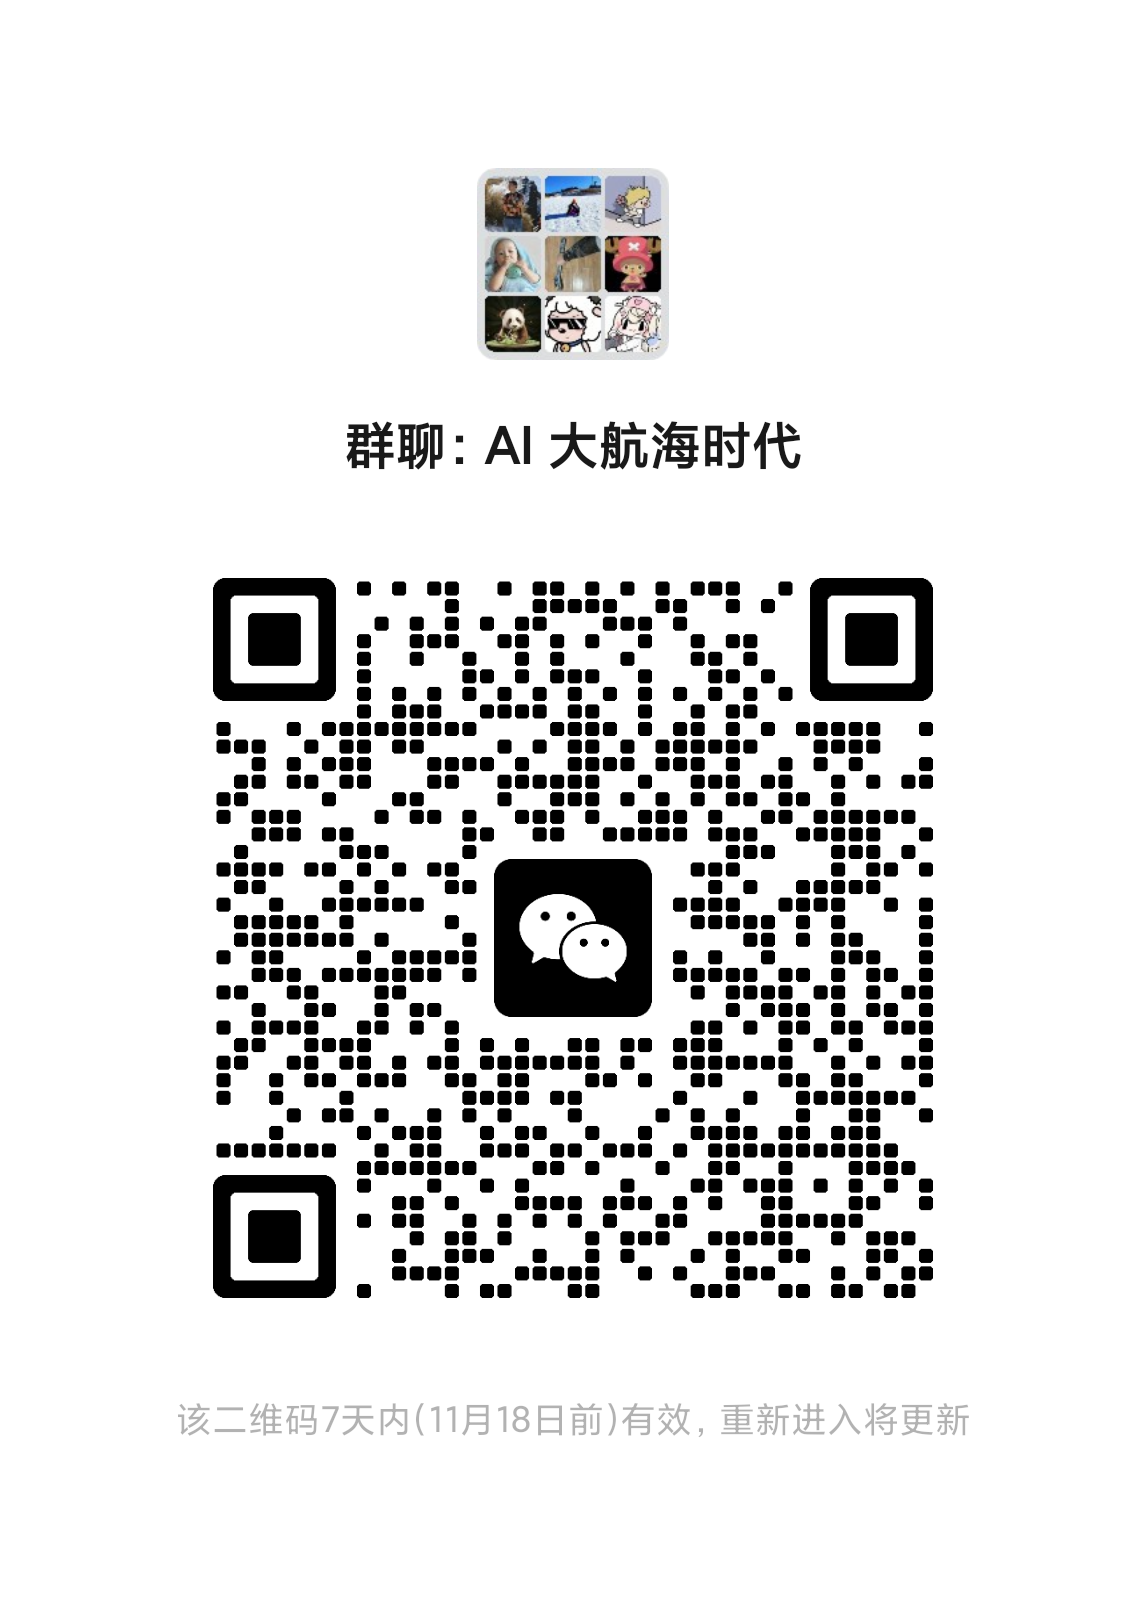
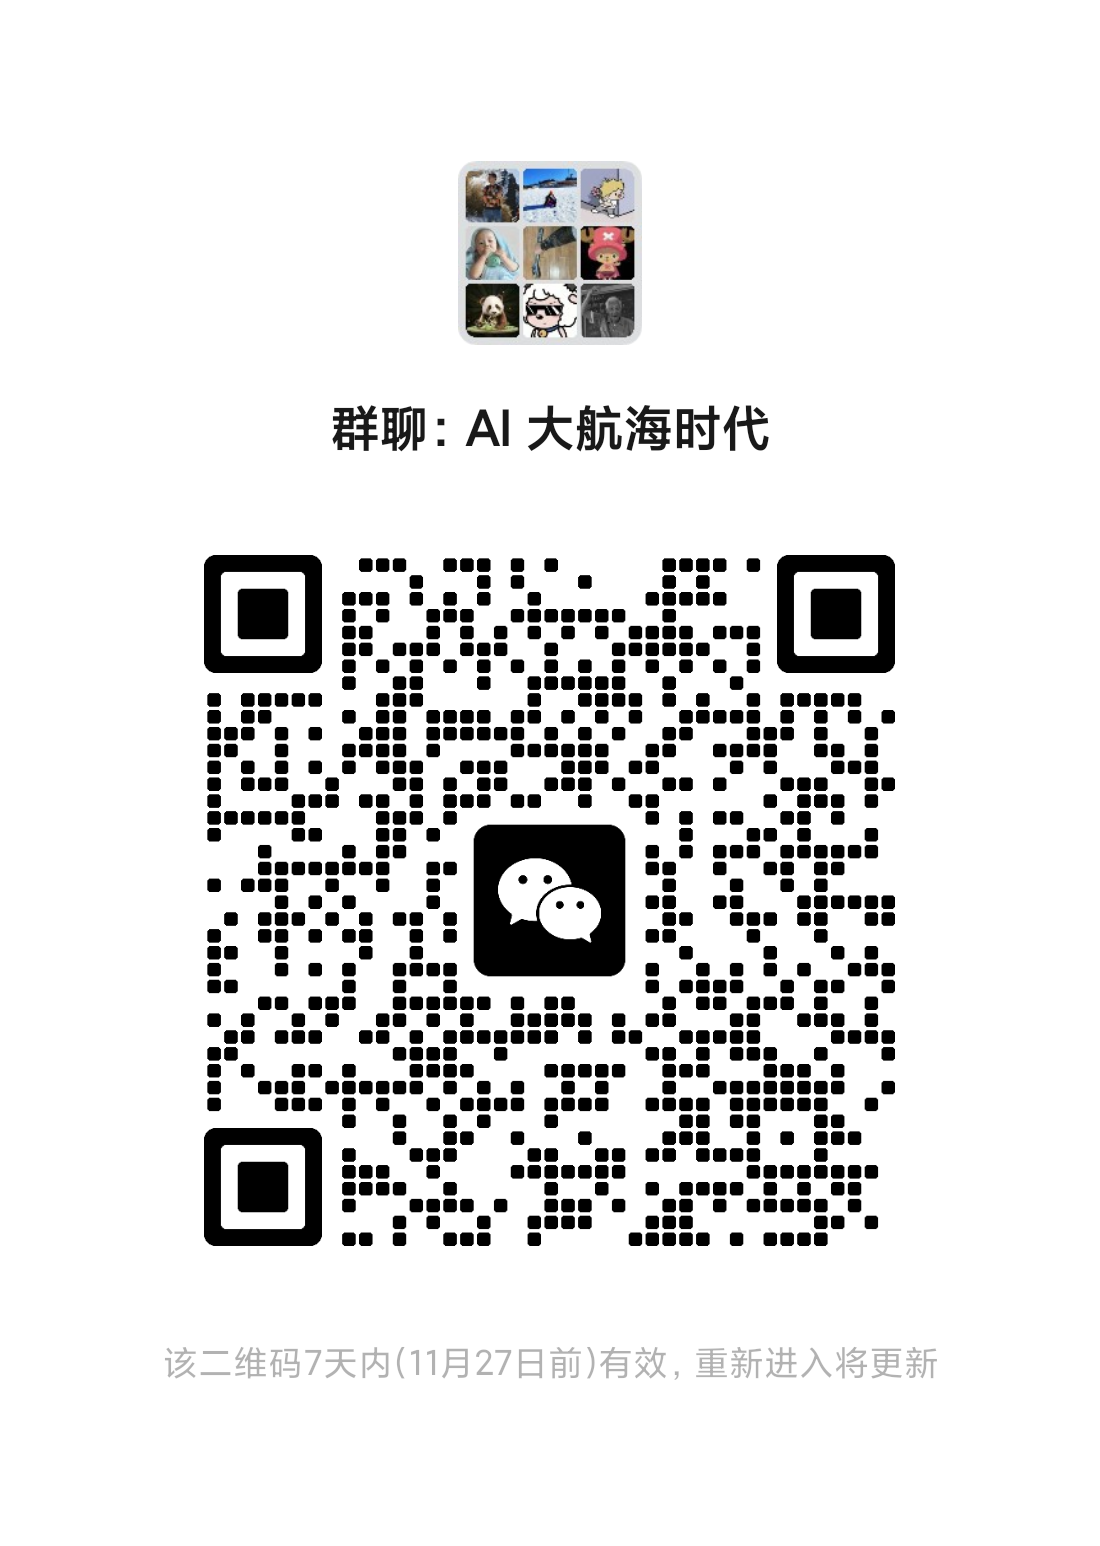
docs: refresh WeChat group QR valid before November 27

diff --git a/README.md b/README.md
@@ -97,7 +97,7 @@ npm run build    # 静态站点输出到 dist/
 
 <img src="docs/media/wechat-group.png" alt="微信群二维码：AI 大航海时代" width="260">
 
-> 当前二维码图片标注为 7 天内有效（2026 年 11 月 18 日前）。过期或无法扫码时，请[在 GitHub 提交入群邀请申请](https://github.com/jbang2004/long-wind/issues/new?title=%E7%94%B3%E8%AF%B7%E5%BE%AE%E4%BF%A1%E7%BE%A4%E9%82%80%E8%AF%B7)，作者会在 Issue 中回复。请勿在公开 Issue 中填写手机号、微信号等个人信息。
+> 当前二维码图片标注为 7 天内有效（2026 年 11 月 27 日前）。过期或无法扫码时，请[在 GitHub 提交入群邀请申请](https://github.com/jbang2004/long-wind/issues/new?title=%E7%94%B3%E8%AF%B7%E5%BE%AE%E4%BF%A1%E7%BE%A4%E9%82%80%E8%AF%B7)，作者会在 Issue 中回复。请勿在公开 Issue 中填写手机号、微信号等个人信息。
 
 ---
 
